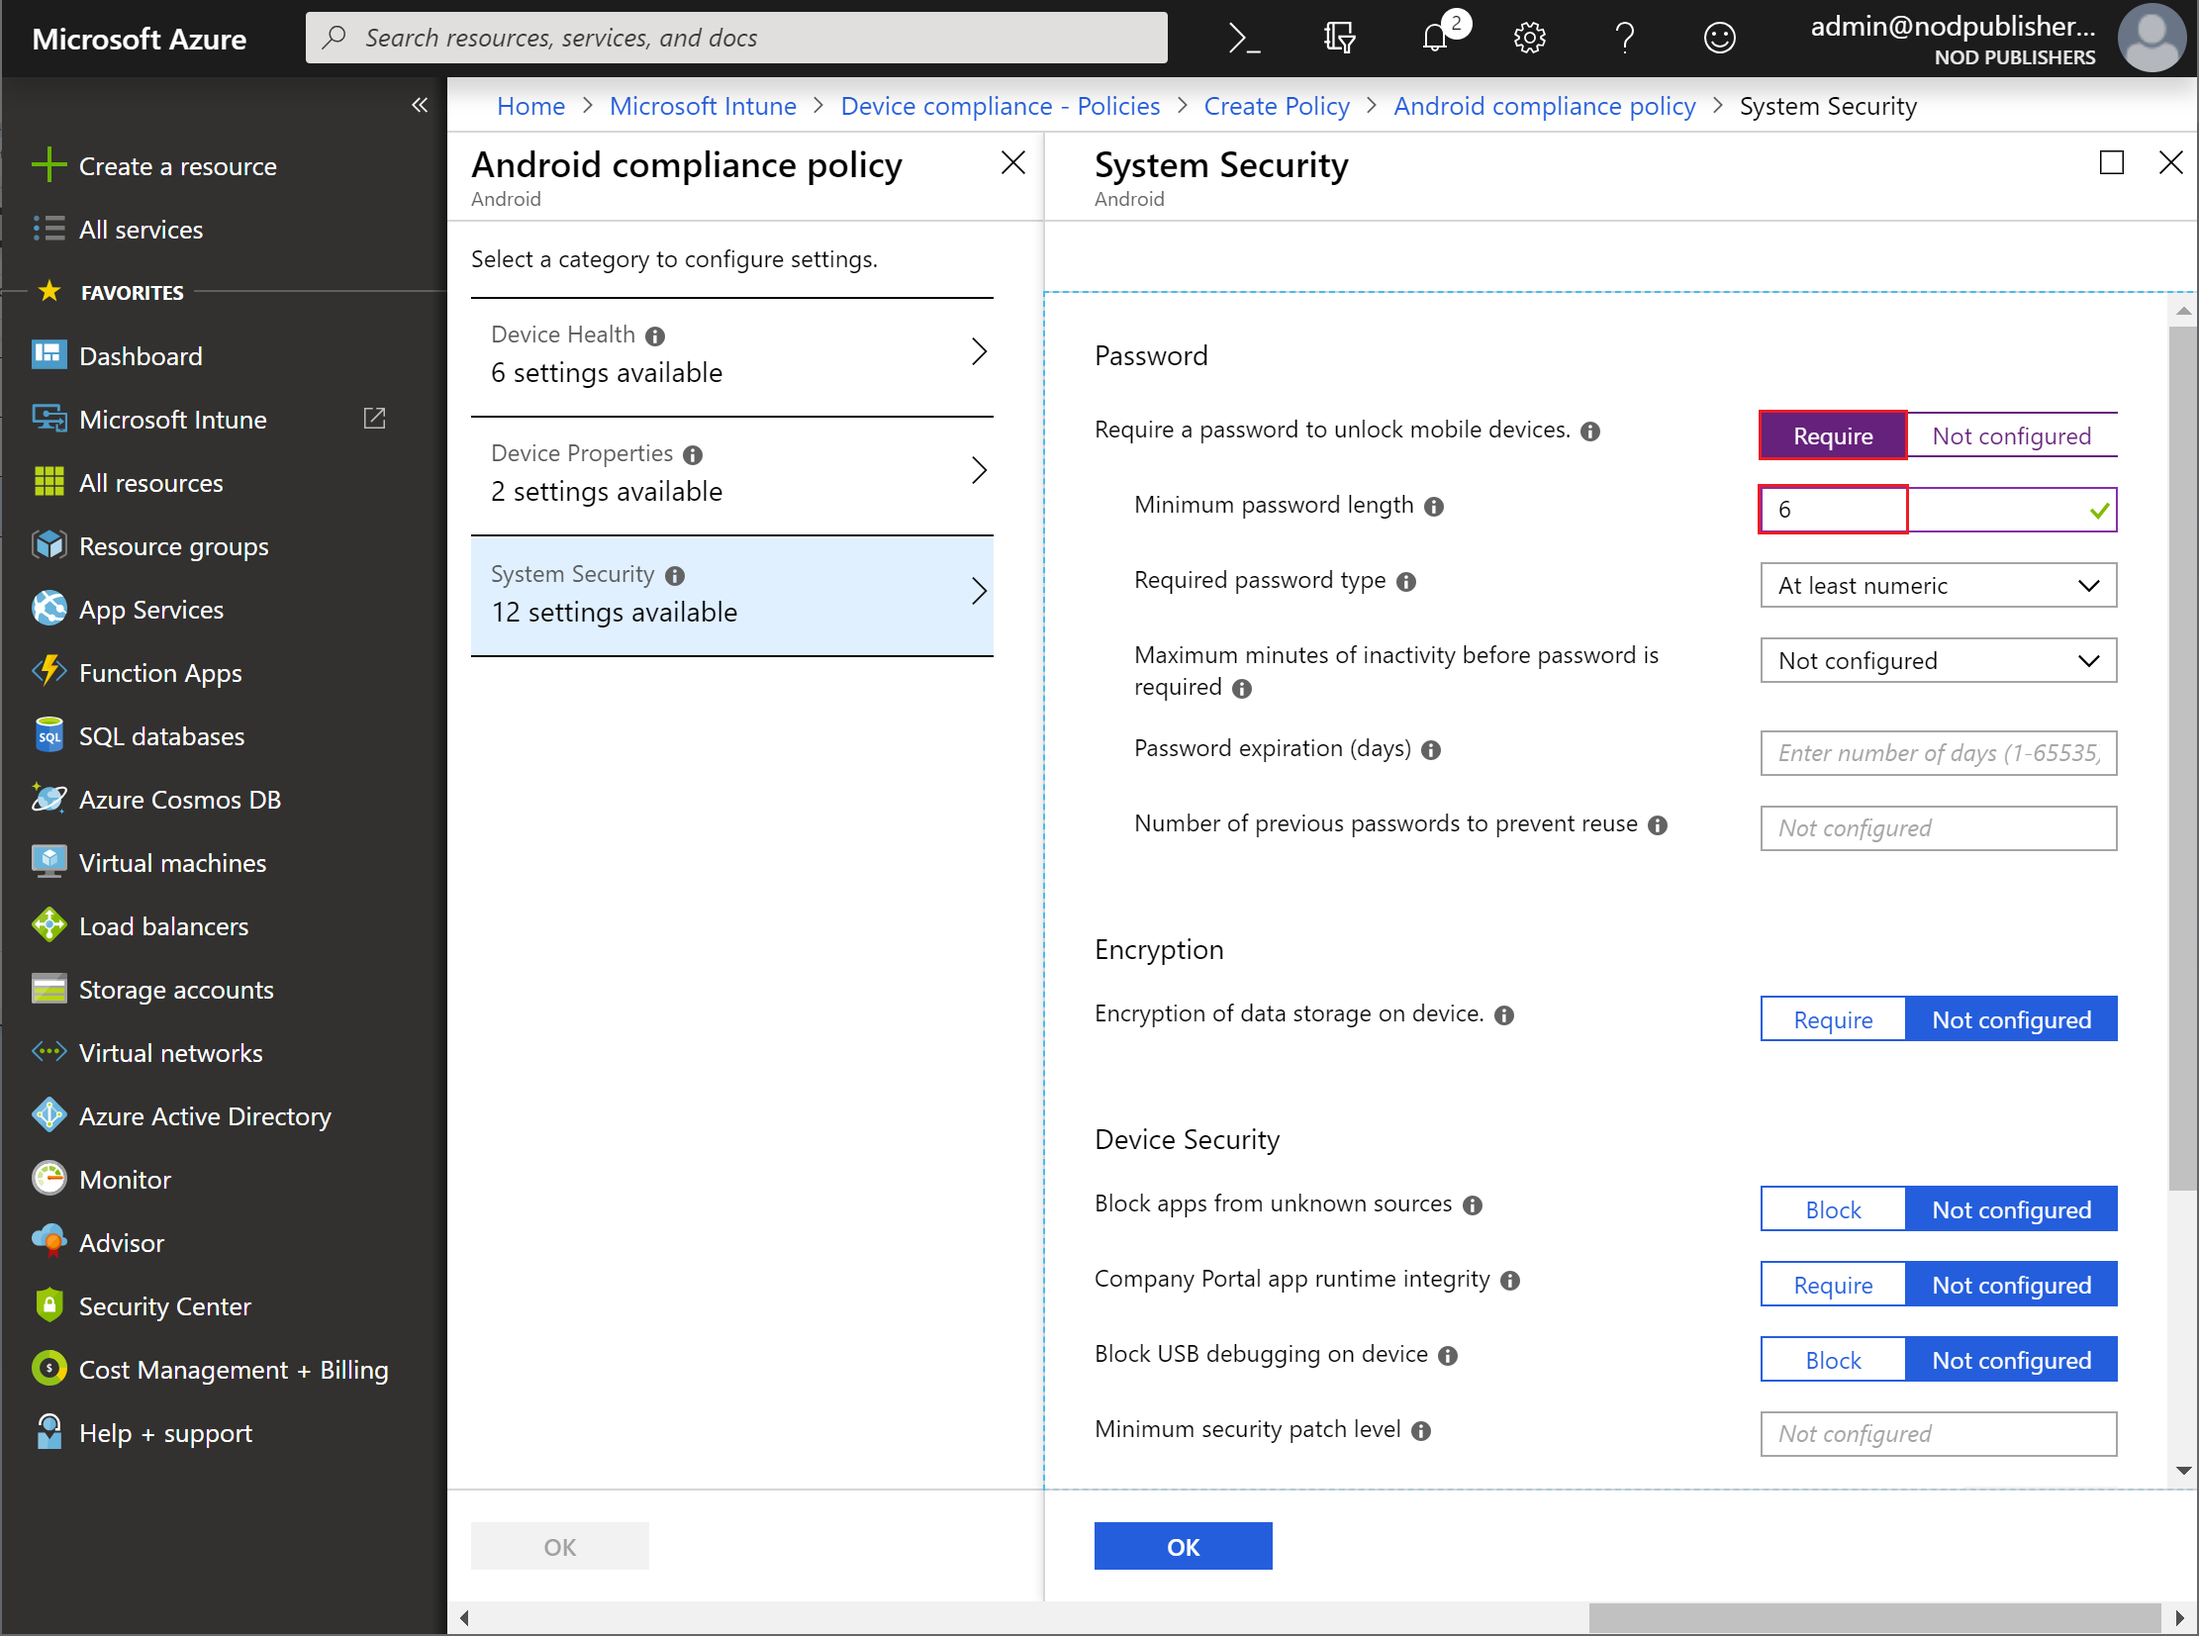
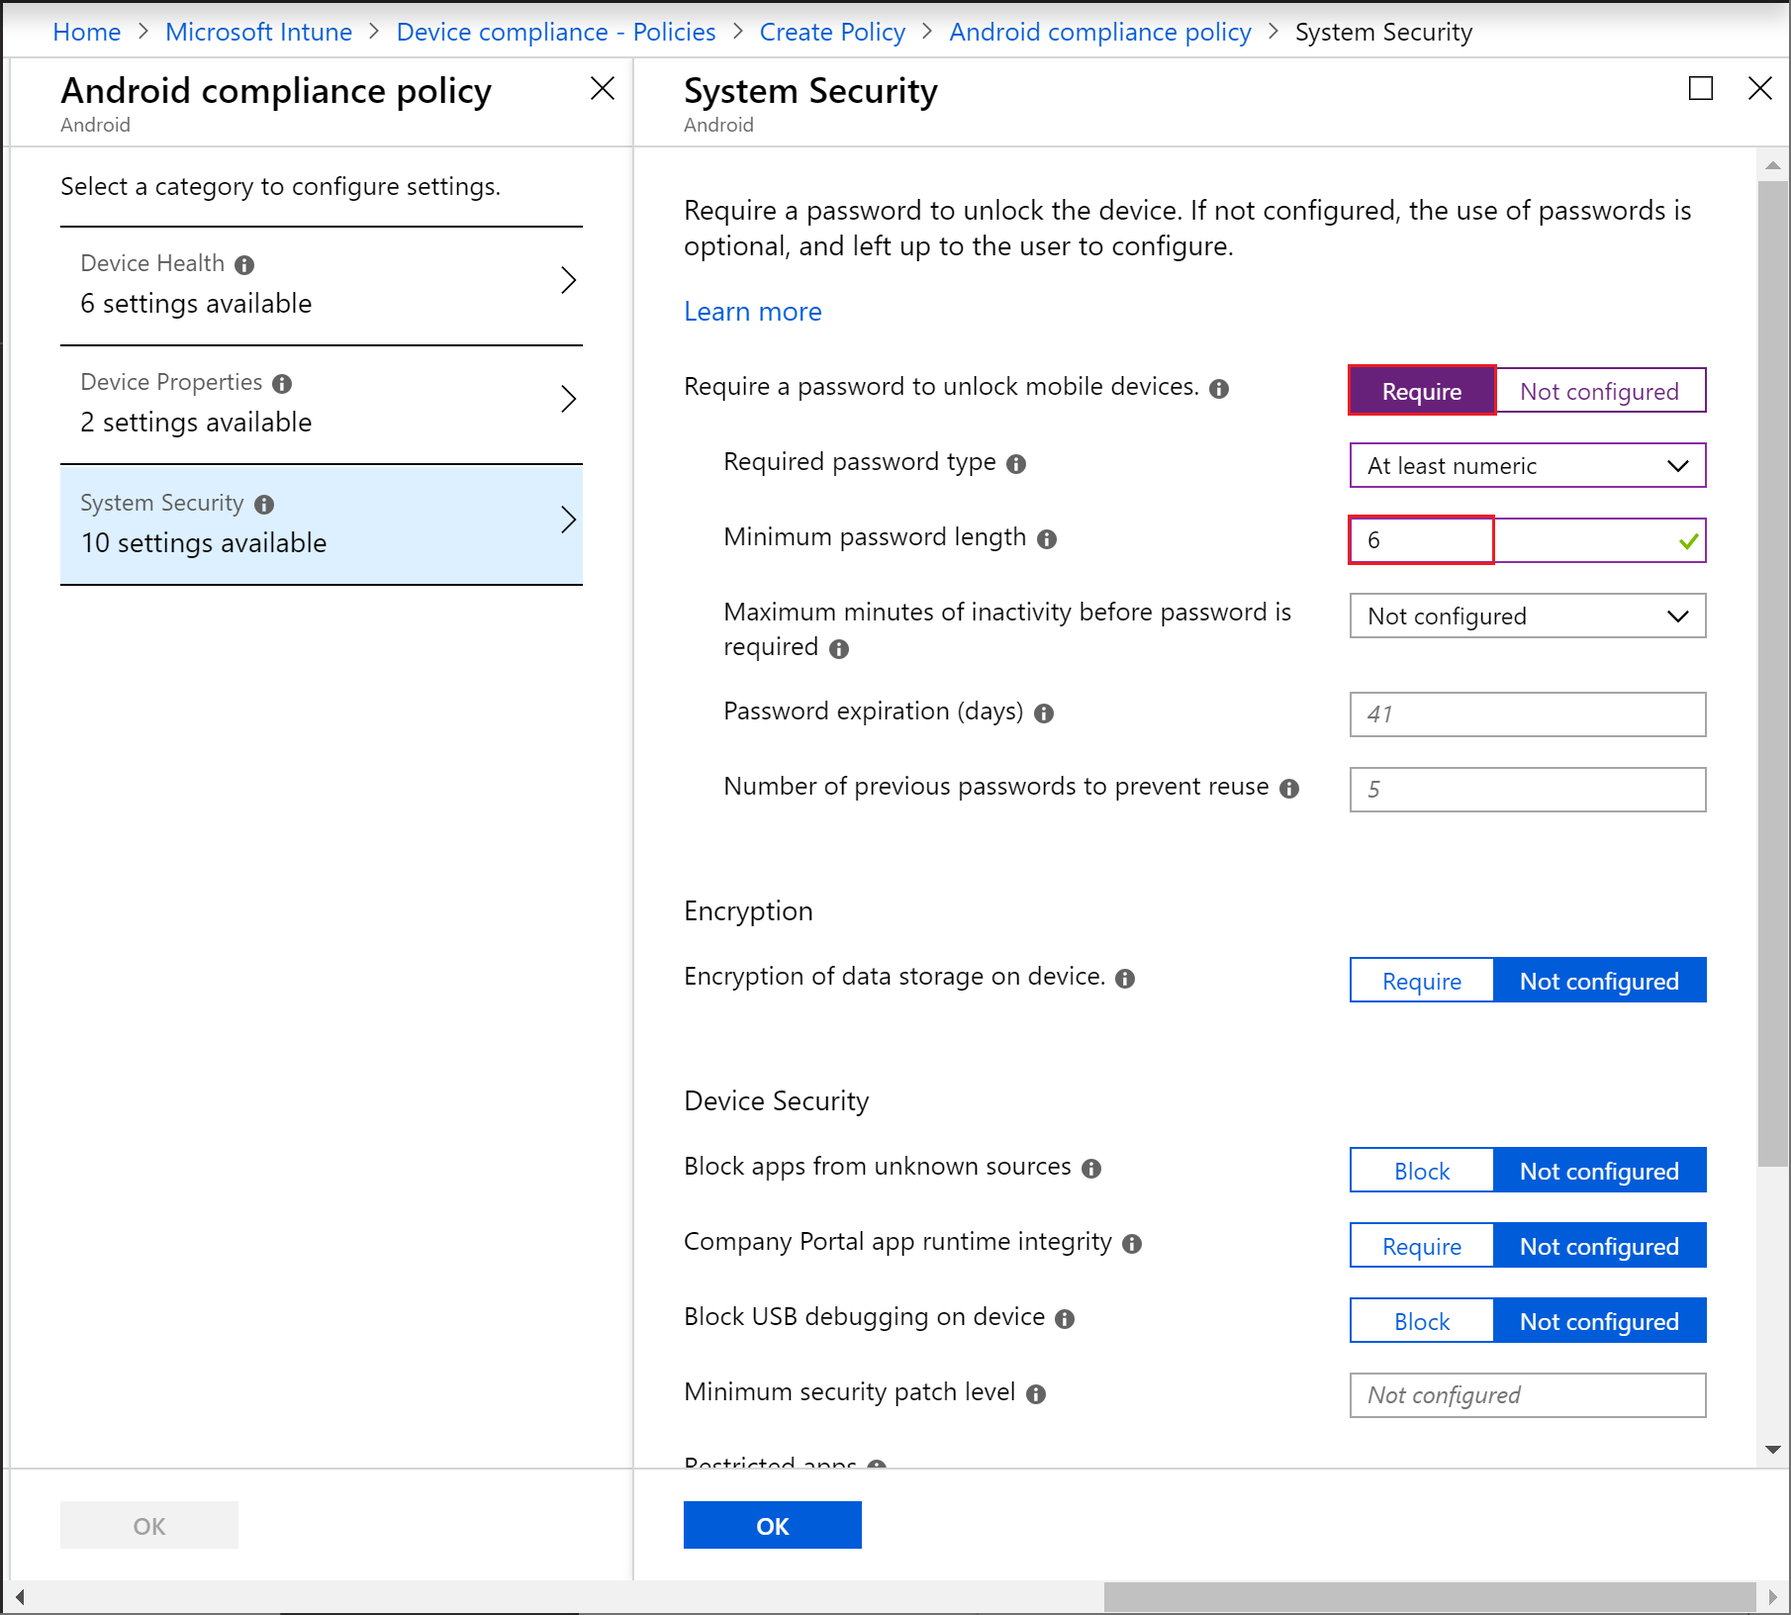
erikre-ISSUE-2182

diff --git a/intune/quickstart-set-password-length-android.md b/intune/quickstart-set-password-length-android.md
@@ -8,7 +8,7 @@ keywords:
 author: Erikre
 ms.author: erikre
 manager: dougeby
-ms.date: 11/09/2018
+ms.date: 03/26/2019
 ms.topic: quickstart
 ms.prod:
 ms.service: microsoft-intune
@@ -53,7 +53,8 @@ For this quickstart, you'll use Intune to require your workforce's Android users
 3. For **Platform**, select **Android**. 
 4. Select **Settings** > **System Security** to display the Android **System Security** blade.
 5. Click **Require** next to **Require a password to unlock mobile devices**.
-6. Enter **6** next to **Minimum password length**. 
+6. Select **At least numeric** next to **Required password type**.
+7. Enter **6** next to **Minimum password length**. 
 
     ![Screenshot of creating a group in Microsoft Intune](media/quickstart-set-password-length-android/quickstart-set-password-length-android-01.png)
 
